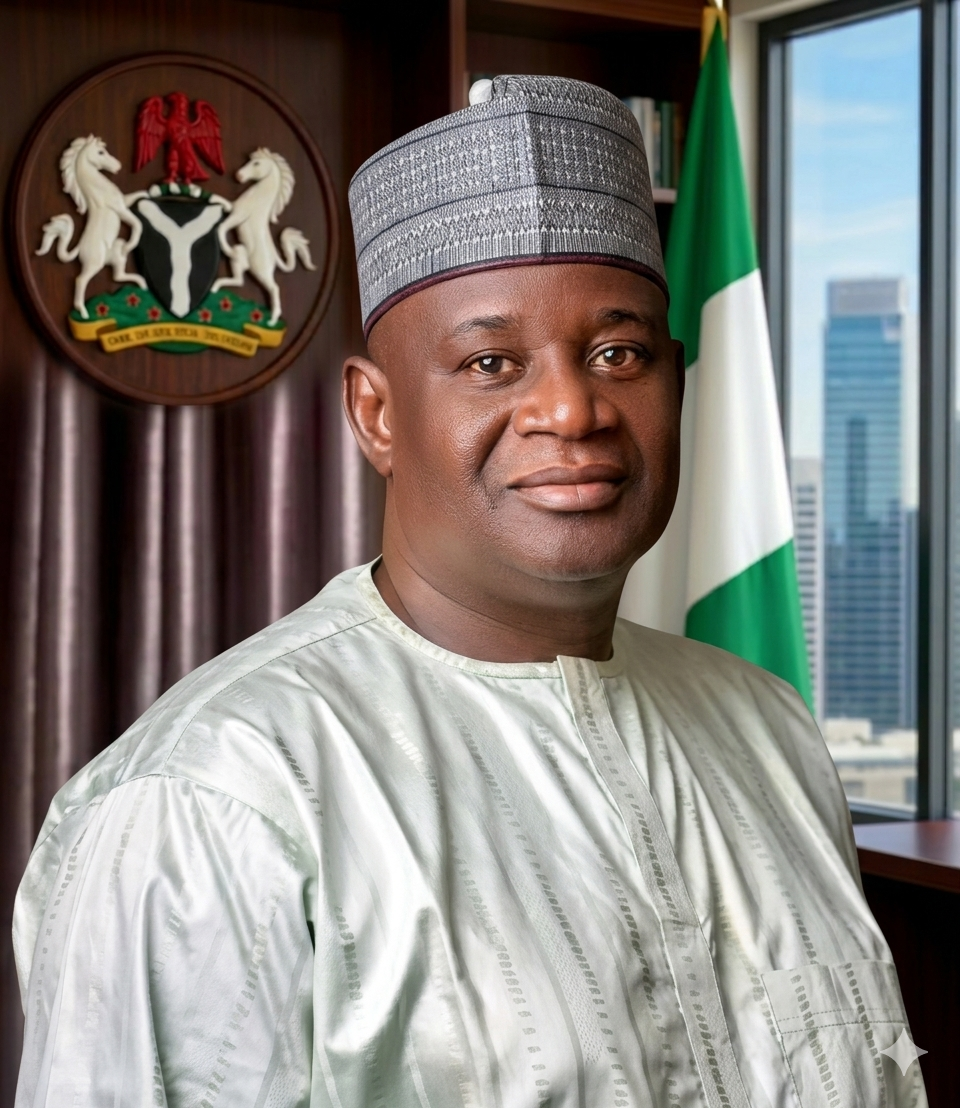
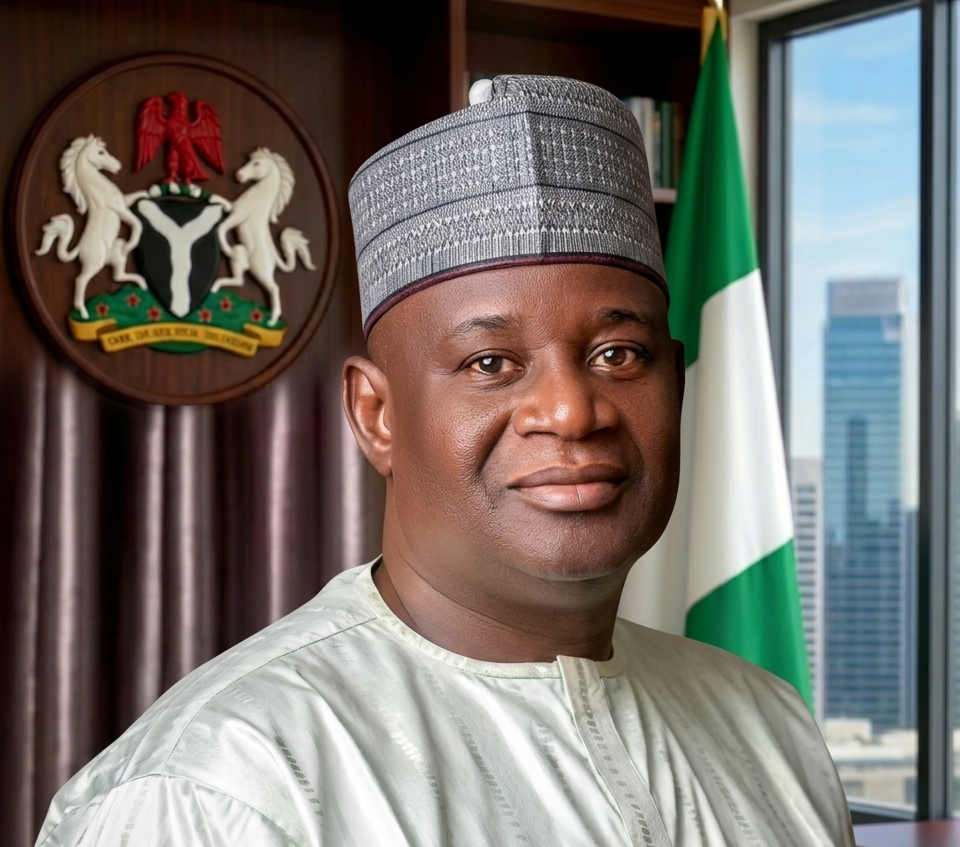
Update site configuration and content for Kachia Local Government. Removed turbopack settings, updated framer-motion dependency, and modified kajuru.json to reflect the new site name and details for Kachia. Updated chairman image and contact information.

diff --git a/next.config.js b/next.config.js
@@ -4,10 +4,6 @@ require('dotenv').config({ path: path.join(__dirname, '.env') });
 /** @type {import('next').NextConfig} */
 const nextConfig = {
   images: { unoptimized: true },
-  // Set turbopack root to silence the lockfile warning
-  turbopack: {
-    root: __dirname,
-  },
 };
 
 module.exports = nextConfig;
